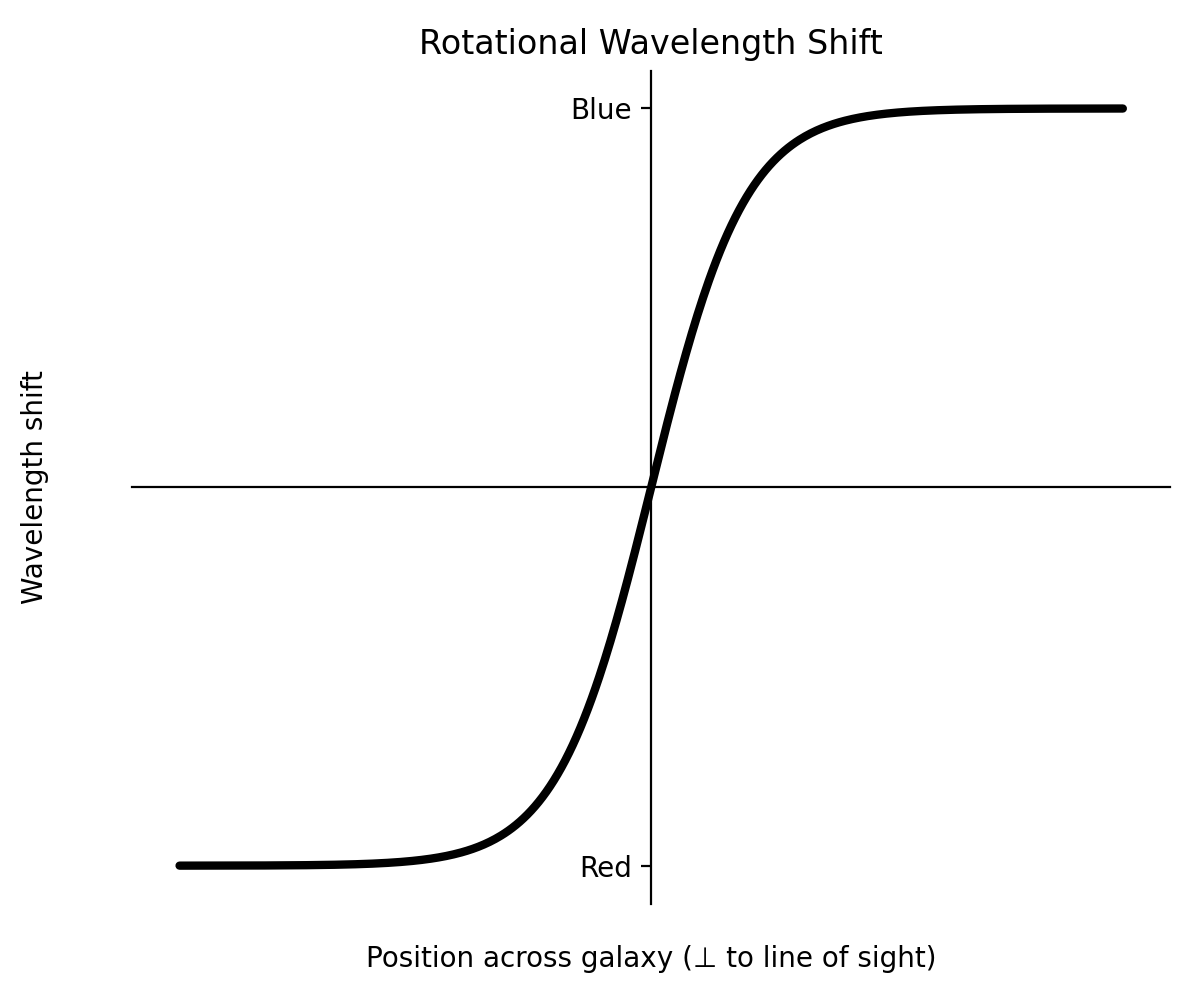
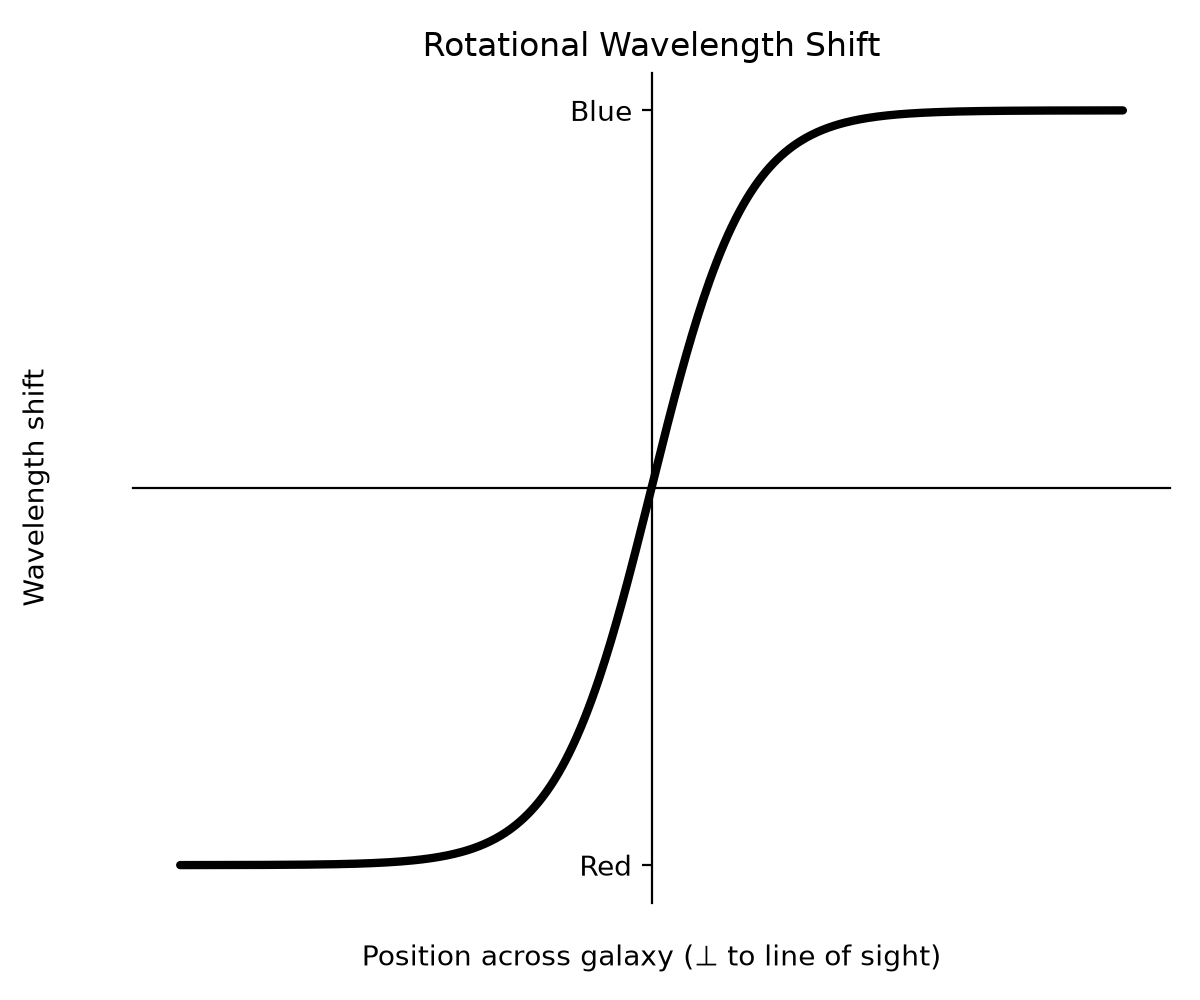
8/24/26 morning

diff --git a/Tex files/Group pres 1.md b/Tex files/Group pres 1.md
@@ -35,7 +35,7 @@ img[alt~="center"] {
   margin: 0 auto;
 }
 </style>
-![width:450px center](../Python%20files/Math/graphs/galaxy_rotation_simple.png)
+![width:450px center](../Python-files/Math/graphs/galaxy_rotation_simple.png)
 
 
 ---
@@ -49,7 +49,7 @@ img[alt~="center"] {
   margin: 0 auto;
 }
 </style>
-![width:450px center](../Python%20files/Math/graphs/galaxy_rotation_simple_shifted.png)
+![width:450px center](../Python-files/Math/graphs/galaxy_rotation_simple_shifted.png)
 
 
 Seperation of luminous and kinematic centers --> unknwown physics at play, needs to generate the above shift.
@@ -81,13 +81,13 @@ break down the gauge boson explanation of this
 **Swartzchild**
 Swartzchild as estimate of low/non-rotating body in space:
 $$ S =m\int d\tau = m\int g_{\mu\nu} \frac{\partial x^\mu}{\partial\lambda} \frac{\partial x^\nu}{\partial\lambda}d\lambda = \int \mathcal{L}d\lambda,$$
-$$\mathcal{L}  = m\sqrt{(1-\frac{r_s}{r})(t\prime)^2 - (1-\frac{r_s}{r})^{-1}(r\prime)^2-r^2(\phi\prime)^2}$$
+$$\mathcal{L}  = m\sqrt{(1-\frac{r_s}{r})(t^\prime)^2 - (1-\frac{r_s}{r})^{-1}(r^\prime)^2-r^2(\phi^\prime)^2}$$
 prime indicates a partial derivitive w.r.t. the affine parameter $\lambda$
 
 ---
 **dynamic mass swartzchild**
 
-$$\mathcal{L}  = m(r)\sqrt{(1-\frac{r_s}{r})(t\prime)^2 - (1-\frac{r_s}{r})^{-1}(r\prime)^2-r^2(\phi\prime)^2}$$
+$$\mathcal{L}  = m(r)\sqrt{(1-\frac{r_s}{r})(t^\prime)^2 - (1-\frac{r_s}{r})^{-1}(r^\prime)^2-r^2(\phi^\prime)^2}$$
 ###### prime indicates a partial derivitive w.r.t. the affine parameter $\lambda$
 
 ---
